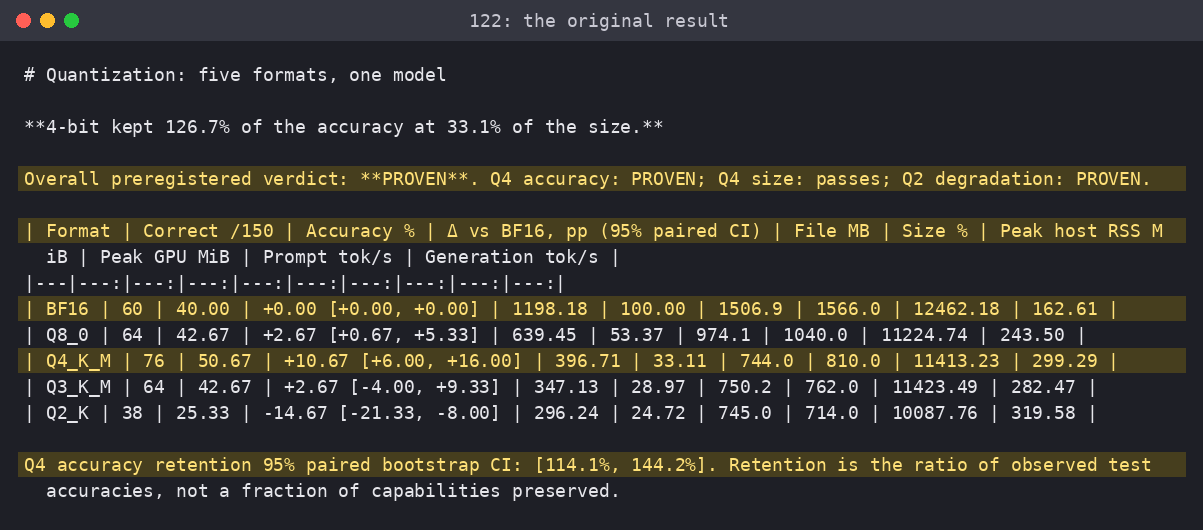
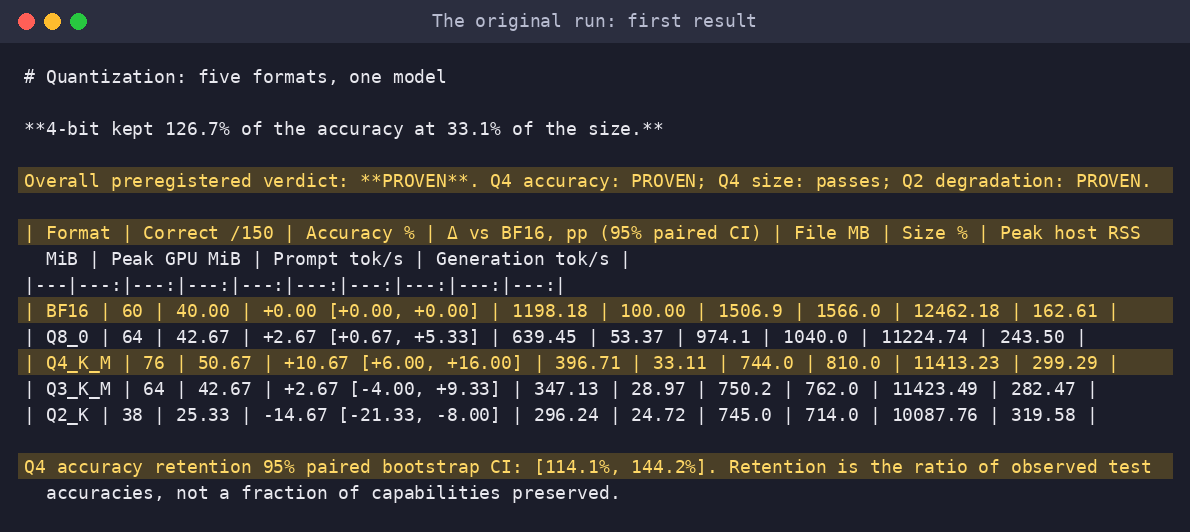
Rename internal IDs to descriptive names

diff --git a/scripts/report.py b/scripts/report.py
@@ -23,7 +23,7 @@ Overall verdict: **{s['verdict']}**. Q4 within 1 pp: **{s['H1_Q4']}**. Q2 drop >
 On {n:,} fresh science questions, Q4 scored {q4['cyclic_accuracy']:.2f}% and BF16 {bf['cyclic_accuracy']:.2f}% after averaging answer-letter likelihoods across all four cyclic option rotations. The old apparent Q4 advantage depended strongly on the original answer format, so a forced-letter win should not be read as a general improvement in capability.
 
 ## Method and interpretation
-The same pinned Qwen3-0.6B GGUF weights as experiment 122 were loaded in fresh processes on NVIDIA L4 using llama-cpp-python 0.3.36, context 2048, batch 512, microbatch 128, GPU layers 99, two CPU threads, flash attention disabled, logits_all=True. All model hashes were verified. The first VM disappeared; complete BF16/Q2 and partial Q8/Q3 checkpoints were retained and missing rows finished on a replacement L4. Original allocation evidence is archived in results/allocation1; results/recovery.json records retained row counts. Per-format metadata seconds for resumed formats measure only work since the last process start, not total runtime. Four single-token letter log probabilities are scored against the full vocabulary after the exact original non-thinking chat prompt. For each question, four cyclic permutations place every content answer in every letter position. We map scores back to original answer identities, average log probabilities, and pick the largest. This cancels a fixed additive preference for a letter; it does not guarantee invariance to content-dependent ordering effects. Within a prompt logits and log probabilities give the same ranking. This was likelihood ranking in 122 too, rather than sampled free-form generation.
+The same pinned Qwen3-0.6B GGUF weights as the [original run](https://github.com/nankris/quantization-ladder) were loaded in fresh processes on NVIDIA L4 using llama-cpp-python 0.3.36, context 2048, batch 512, microbatch 128, GPU layers 99, two CPU threads, flash attention disabled, logits_all=True. All model hashes were verified. The first VM disappeared; complete BF16/Q2 and partial Q8/Q3 checkpoints were retained and missing rows finished on a replacement L4. Original allocation evidence is archived in results/allocation1; results/recovery.json records retained row counts. Per-format metadata seconds for resumed formats measure only work since the last process start, not total runtime. Four single-token letter log probabilities are scored against the full vocabulary after the exact original non-thinking chat prompt. For each question, four cyclic permutations place every content answer in every letter position. We map scores back to original answer identities, average log probabilities, and pick the largest. This cancels a fixed additive preference for a letter; it does not guarantee invariance to content-dependent ordering effects. Within a prompt logits and log probabilities give the same ranking. The original run also used likelihood ranking rather than sampled free-form generation.
 
 Secondary full-text scoring replaces the instruction with “Reply with only the exact answer text.” Each candidate is tokenized without BOS, appended to the separately tokenized prompt, and teacher-forced in a reset context. Score the mean full-vocabulary log probability per candidate token; no EOS likelihood. Text prompt and candidate scores are a different metric, not another independent replication. Model token IDs, candidate token log probabilities, prompt-token counts, candidate counts and zero generated tokens are retained in every raw row. Prompt counts include repeated prefixes in the four full-text candidate evaluations. Letter candidates are scored from a common distribution, not fed as generated inputs.
 
@@ -45,7 +45,7 @@ Across all formats, the model tokenizer recorded {sum(r['evaluated_input_tokens'
 Post hoc split sensitivity (not new confirmatory tests): Q4 minus BF16 was -2.91 pp on train (n=2,203; CI [-4.09, -1.77]), 0.00 pp on validation (n=566; CI [-2.12, +2.12]), and -1.68 pp on the fresh test split (n=2,203; CI [-2.86, -0.54]). Test-only is inconclusive at the one-point margin; the registered decision uses all 4,972 questions. Full descriptive results are in results/descriptive_split_checks.json.
 
 ## Caveats
-One small model, one science benchmark family, one prompt per scoring style, prebuilt mixed-precision quantizers. This does not estimate a universal bit-width effect or test generated reasoning. Combining train, validation and test questions improves precision but expands beyond the earlier test-only distribution. No five-seed training replication applies to deterministic fixed-weight scoring. The small pilot gives an uncertain discordance estimate. Pilot and confirmation use disjoint ARC-Easy items, rather than a different dataset/model as preferred by the general operational rule. Bootstrap intervals describe item sampling, not prompt choice or unknown training contamination. Native/Python logit agreement is checked for all letter rotations; a one-question old/new and incremental/full smoke check showed small numerical differences and the same winning tokens, not universal equivalence. A first overly strict validation tolerance failed and is retained in logs. Exact-text deduplication does not remove semantic near duplicates. The follow-up context allocation is 2048 tokens, versus 1024 in 122; letter prompt content is unchanged. No new speed or memory superiority claim is made.
+One small model, one science benchmark family, one prompt per scoring style, prebuilt mixed-precision quantizers. This does not estimate a universal bit-width effect or test generated reasoning. Combining train, validation and test questions improves precision but expands beyond the earlier test-only distribution. No five-seed training replication applies to deterministic fixed-weight scoring. The small pilot gives an uncertain discordance estimate. Pilot and confirmation use disjoint ARC-Easy items, rather than a different dataset or model. Bootstrap intervals describe item sampling, not prompt choice or unknown training contamination. Native/Python logit agreement is checked for all letter rotations; a one-question old/new and incremental/full smoke check showed small numerical differences and the same winning tokens, not universal equivalence. A first overly strict validation tolerance failed and is retained in logs. Exact-text deduplication does not remove semantic near duplicates. The follow-up context allocation is 2048 tokens, versus 1024 in the original run; letter prompt content is unchanged. No new speed or memory superiority claim is made.
 
 {timeline}
 
@@ -62,7 +62,7 @@ A quantization result that looked like an improvement was also a test of how muc
 
 The popular promise is that four-bit models preserve quality while taking much less space. The [GPTQ paper](https://arxiv.org/abs/2210.17323) describes “negligible accuracy degradation” for its own models and quantization method. That is an attractive engineering trade: fit a model on cheaper hardware without paying much in wrong answers. It is not a guarantee for every model or every scoring script.
 
-My headline from this rerun is **{delta(q4)} percentage points for Q4 versus BF16**, after balancing the option letters. That is the number I would carry forward, with its uncertainty, rather than my first run's apparent improvement.
+My headline from this rerun is **{delta(q4)} percentage points for Q4 versus BF16**, after balancing the option letters. That is the number I would carry forward, with its uncertainty, rather than my [first run's](https://github.com/nankris/quantization-ladder) apparent improvement.
 
 ## What I expected, and what the first run said
 
@@ -163,7 +163,7 @@ A post hoc check of the fresh test split alone gave Q4 a -1.68-point difference,
 
 The useful habit is to inspect what a score rewards before deciding what a smaller model preserved.
 
-Code: <repo link placeholder>
+Code: https://github.com/nankris/quant-ladder-logprob
 '''
 (R/'blog.md').write_text(blog)
 print('blog words',len(re.findall(r"\b[\w'-]+\b",blog)))

diff --git a/scripts/monitor.py b/scripts/monitor.py
@@ -9,17 +9,17 @@ while True:
   first=(datetime.datetime.fromisoformat(rec['first_session_absent_observed_utc'])-datetime.datetime.fromisoformat(rec['first_allocation_start_utc_approx'])).total_seconds()/3600*1.54
   current=(datetime.datetime.now(datetime.timezone.utc)-datetime.datetime.fromisoformat(rec['recovery_allocation_utc'])).total_seconds()/3600*1.54
   if first+current>=5.8:
-   (R/'results/budget_stop.txt').write_text(subprocess.check_output(['colab','stop','-s','b10-122b'],text=True,timeout=50))
+   (R/'results/budget_stop.txt').write_text(subprocess.check_output(['colab','stop','-s','quant-ladder'],text=True,timeout=50))
    raise SystemExit('Conservative CU limit reached')
   u=subprocess.check_output(['colab','usage'],text=True,timeout=50)
   (R/f'results/usage_monitor_{n:03d}.txt').write_text(u)
-  subprocess.run(['colab','exec','-s','b10-122b','-f','scripts/poll.py','--timeout','25'],stdout=(R/'results/poll_latest.txt').open('w'),stderr=subprocess.STDOUT,timeout=55,check=True)
-  subprocess.run(['colab','download','-s','b10-122b','/content/b10-122b/checkpoint.tar.gz','results/checkpoint.tar.gz'],stdout=subprocess.DEVNULL,timeout=55,check=True)
+  subprocess.run(['colab','exec','-s','quant-ladder','-f','scripts/poll.py','--timeout','25'],stdout=(R/'results/poll_latest.txt').open('w'),stderr=subprocess.STDOUT,timeout=55,check=True)
+  subprocess.run(['colab','download','-s','quant-ladder','/content/quant-ladder/checkpoint.tar.gz','results/checkpoint.tar.gz'],stdout=subprocess.DEVNULL,timeout=55,check=True)
   with tarfile.open(R/'results/checkpoint.tar.gz') as tf: tf.extractall(R,filter='data')
   status=json.loads((R/'results/status.json').read_text()); counts={p.stem:sum(1 for _ in p.open()) for p in (R/'results').glob('confirm_*.jsonl')}
   print(datetime.datetime.now(datetime.timezone.utc).isoformat(),status,counts,flush=True)
   if status['status'] in ['complete','error']:
-   (R/'results/stop.txt').write_text(subprocess.check_output(['colab','stop','-s','b10-122b'],text=True,timeout=50))
+   (R/'results/stop.txt').write_text(subprocess.check_output(['colab','stop','-s','quant-ladder'],text=True,timeout=50))
    (R/'results/usage_after.txt').write_text(subprocess.check_output(['colab','usage'],text=True,timeout=50))
    break
  except Exception as e: print(type(e).__name__,str(e),flush=True)

diff --git a/scripts/finalize.py b/scripts/finalize.py
@@ -24,7 +24,7 @@ analysis=json.loads((D/'analysis_stage.json').read_text()); analysis_start=dt(an
 mins=lambda a,b:(b-a).total_seconds()/60
 timing.update(end_ist=now.astimezone(datetime.timezone(datetime.timedelta(hours=5,minutes=30))).isoformat(),actual_minutes=mins(start,now),per_stage_minutes={'setup':mins(start,frozen),'GPU run':mins(frozen,gpu_end),'eval':mins(analysis_start,analysis_end),'writeup':mins(gpu_end,now)-mins(analysis_start,analysis_end)},stage_note='Elapsed wall-clock allocation: setup ends at sample freeze (includes pilot); GPU run ends at last format metadata and includes outage/recovery downtime; eval is local analysis; remaining wall time is publication/writeup. Publication preparation also overlapped GPU evaluation. These are elapsed stage buckets, not exclusive labor measurements.',confirmatory_gpu_end_utc=gpu_end.isoformat())
 (D/'timing.json').write_text(json.dumps(timing,indent=2))
-parts=['122b run evidence: NVIDIA L4, two allocations under b10-122b after VM loss; no generated tokens.\n', '=== initial nvidia-smi ===\n'+(D/'nvidia-smi.txt').read_text(),'=== active GPU snapshot ===\n'+(D/'nvidia-smi-during.txt').read_text(),'=== first allocation evidence ===\n'+(D/'allocation1/nvidia-smi.txt').read_text(),'=== hash verification ===\n'+(D/'prepare.log').read_text()[-500:]]
+parts=['Run evidence: NVIDIA L4, two allocations under quant-ladder after VM loss; no generated tokens.\n', '=== initial nvidia-smi ===\n'+(D/'nvidia-smi.txt').read_text(),'=== active GPU snapshot ===\n'+(D/'nvidia-smi-during.txt').read_text(),'=== first allocation evidence ===\n'+(D/'allocation1/nvidia-smi.txt').read_text(),'=== hash verification ===\n'+(D/'prepare.log').read_text()[-500:]]
 for fmt in ['BF16','Q8_0','Q4_K_M','Q3_K_M','Q2_K']:
  p=D/f'confirm_{fmt}.log'
  parts+=['=== '+fmt+' ===\n'+(p.read_text() if p.exists() else (D/f'aux_{fmt}.log').read_text())[-700:],'=== metadata seconds (resumed formats report suffix work only) ===\n'+str(json.loads((D/f'confirm_{fmt}_meta.json').read_text())['seconds'])+'\n']

diff --git a/scripts/termshot.py b/scripts/termshot.py
@@ -1,0 +1,27 @@
+#!/usr/bin/env python3
+"""Render a text file as a terminal-window screenshot (PNG)."""
+import argparse,re,textwrap
+from pathlib import Path
+from PIL import Image,ImageDraw,ImageFont
+from matplotlib import font_manager
+p=argparse.ArgumentParser(); p.add_argument('out'); p.add_argument('--title',required=True); p.add_argument('--file',required=True)
+p.add_argument('--width',type=int,default=90); p.add_argument('--max',type=int,default=45); p.add_argument('--highlight',default='')
+a=p.parse_args()
+rows=[]
+for line in Path(a.file).read_text().splitlines():
+ rows.extend(textwrap.wrap(line,a.width,subsequent_indent='  ',replace_whitespace=False,drop_whitespace=False) or [''])
+rows=rows[:a.max]
+mono=ImageFont.truetype(font_manager.findfont('DejaVu Sans Mono'),18); sans=ImageFont.truetype(font_manager.findfont('DejaVu Sans Mono'),18)
+cw=mono.getlength('M'); lh=26; top=42; pad=24
+W=int(2*pad+cw*a.width+4); H=top+2*pad+lh*len(rows)
+im=Image.new('RGB',(W,H),'#1b1d2a'); d=ImageDraw.Draw(im)
+d.rectangle([0,0,W,top],fill='#2b2e3f')
+for i,c in enumerate(['#ff5f57','#febc2e','#28c840']): d.ellipse([18+i*26,13,18+i*26+16,29],fill=c)
+d.text((W/2,top/2),a.title,font=sans,fill='#b8bcd0',anchor='mm')
+hl=re.compile(a.highlight) if a.highlight else None
+for i,r in enumerate(rows):
+ y=top+pad+lh*i
+ hit=bool(hl and hl.search(r))
+ if hit: d.rectangle([pad-6,y-3,W-pad+6,y+lh-4],fill='#4a3f27')
+ d.text((pad,y),r,font=mono,fill='#ffd866' if hit else '#e8e8ee')
+im.save(a.out,dpi=(150,150)); print('RENDERED',a.file,'->',a.out,im.size)

diff --git a/scripts/screenshots.py b/scripts/screenshots.py
@@ -1,5 +1,5 @@
 """Render preserved files and computed results as real terminal screenshots."""
-import json,subprocess
+import json,subprocess,sys
 from pathlib import Path
 R=Path(__file__).resolve().parents[1]; D=R/'results'; F=R/'figures/screenshots'; F.mkdir(exist_ok=True)
 old=(D/'earlier_writeup.md').read_text()
@@ -15,6 +15,6 @@ for i in [2,4]:
  r=s['summary'][i]; lo,hi=r['cyclic_delta_ci']
  lines.append(f"{r['format']} - BF16: {r['cyclic_delta']:+.2f} pp; paired 95% CI [{lo:+.2f}, {hi:+.2f}]")
 (D/'screenshot_verdict.txt').write_text('\n'.join(lines)+'\n')
-for name,title,width in [('first','122: the original result',105),('flaw','122: the letter preference',90),('fixed','122b: fixed scoring on fresh questions',90),('verdict','122b: registered verdict',90)]:
- subprocess.run(['/workspace/tools/mlenv/bin/python','/workspace/work/tig/_batch10/vm/termshot.py',str(F/f'{name}.png'),'--title',title,'--file',str(D/f'screenshot_{name}.txt'),'--width',str(width),'--max','45','--highlight','Q4|BF16|verdict'],check=True)
+for name,title,width in [('first','The original run: first result',105),('flaw','The original run: letter preference',90),('fixed','Fixed scoring on fresh questions',90),('verdict','Registered verdict',90)]:
+ subprocess.run([sys.executable,str(Path(__file__).with_name('termshot.py')),str(F/f'{name}.png'),'--title',title,'--file',str(D/f'screenshot_{name}.txt'),'--width',str(width),'--max','45','--highlight','Q4|BF16|verdict'],check=True)
  print((D/f'screenshot_{name}.txt').read_text())

diff --git a/scripts/diagram.py b/scripts/diagram.py
@@ -7,7 +7,7 @@ def box(i,x,y,w,h,text,color):
  els.append(dict(common,id=f't{i}',type='text',x=x+14,y=y+17,width=w-28,height=67.5,text=text,fontSize=18,fontFamily=1,textAlign='center',verticalAlign='top',baseline=63,containerId=None,originalText=text,autoResize=True,lineHeight=1.25,backgroundColor='transparent',roundness=None))
 def arrow(i,x,y,dx,dy):
  els.append(dict(id=f'a{i}',type='arrow',x=x,y=y,width=abs(dx),height=abs(dy),angle=0,strokeColor='#25334a',backgroundColor='transparent',fillStyle='solid',strokeWidth=2,strokeStyle='solid',roughness=1,opacity=100,groupIds=[],frameId=None,roundness={'type':2},seed=i*87,version=1,versionNonce=i,isDeleted=False,boundElements=None,updated=1,link=None,locked=False,points=[[0,0],[dx,dy]],lastCommittedPoint=None,startBinding=None,endBinding=None,startArrowhead=None,endArrowhead='arrow',elbowed=False))
-box(1,20,30,270,115,'Public ARC-Easy\nExclude 122 + pilot\nFreeze fresh questions','#e9effa')
+box(1,20,30,270,115,'Public ARC-Easy\nExclude original 150 + pilot\nFreeze fresh questions','#e9effa')
 box(2,355,30,280,115,'Qwen3-0.6B\nBF16, Q8, Q4, Q3, Q2\nPinned GGUF weights','#eaf5ee')
 arrow(1,295,87,55,0)
 box(3,30,230,275,120,'Four cyclic rotations\nScore A / B / C / D\nMap back to answer text','#fff4d9')

diff --git a/scripts/inspect_recovery.py b/scripts/inspect_recovery.py
@@ -1,8 +1,8 @@
 from pathlib import Path
 import subprocess,time
-R=Path('/content/b10-122b')
+R=Path('/content/quant-ladder')
 print(subprocess.getoutput("ps -eo pid,ppid,etime,args | grep -E '(8429|8922|pip install|scripts/prepare.py|scripts/evaluate.py)'"))
 for name in ['results/install.log','results/prepare.log','recovery_control.log']:
  p=R/name
  print(name,'mtime',time.ctime(p.stat().st_mtime) if p.exists() else 'missing',p.read_text()[-600:] if p.exists() else '')
-print(subprocess.getoutput('du -sh /content/b10-122b/models /root/.cache/pip 2>/dev/null'))
+print(subprocess.getoutput('du -sh /content/quant-ladder/models /root/.cache/pip 2>/dev/null'))

diff --git a/scripts/auxiliary.py b/scripts/auxiliary.py
@@ -1,7 +1,7 @@
 """Second serial queue on the SAME VM/GPU; per-format locks prevent duplicates."""
 import os,sys,site,glob,subprocess,json,time,traceback
 from pathlib import Path
-R=Path('/content/b10-122b'); os.chdir(R); start=time.time()
+R=Path('/content/quant-ladder'); os.chdir(R); start=time.time()
 libs=[p for s in site.getsitepackages() for p in glob.glob(s+'/nvidia/*/lib')]
 env=dict(os.environ,LD_LIBRARY_PATH=':'.join(libs)+':'+os.environ.get('LD_LIBRARY_PATH',''),OMP_NUM_THREADS='2',OPENBLAS_NUM_THREADS='1')
 try:

diff --git a/scripts/launch.py b/scripts/launch.py
@@ -1,6 +1,6 @@
 import tarfile,subprocess,os
 from pathlib import Path
-R=Path('/content/b10-122b'); R.mkdir(exist_ok=True)
-with tarfile.open('/content/b10-122b-upload.tar.gz') as tf: tf.extractall(R)
+R=Path('/content/quant-ladder'); R.mkdir(exist_ok=True)
+with tarfile.open('/content/quant-ladder-upload.tar.gz') as tf: tf.extractall(R)
 p=subprocess.Popen(['nohup','python',str(R/'scripts/worker.py')],cwd=R,stdout=(R/'worker.log').open('a'),stderr=subprocess.STDOUT,start_new_session=True)
 print('DETACHED_PID',p.pid)

diff --git a/scripts/recovery_control.py b/scripts/recovery_control.py
@@ -1,7 +1,7 @@
 """On replacement VM, fill the GPU and enforce a two-hour recovery deadline."""
 import subprocess,sys,time,os,signal,json,datetime
 from pathlib import Path
-R=Path('/content/b10-122b')
+R=Path('/content/quant-ladder')
 if '--child' not in sys.argv:
  p=subprocess.Popen(['nohup',sys.executable,str(R/'scripts/recovery_control.py'),'--child'],stdout=(R/'recovery_control.log').open('a'),stderr=subprocess.STDOUT,start_new_session=True)
  print('RECOVERY_CONTROLLER_PID',p.pid)

diff --git a/scripts/worker.py b/scripts/worker.py
@@ -1,6 +1,6 @@
 import sys,subprocess,os,time,json,site,glob,traceback,tarfile
 from pathlib import Path
-R=Path('/content/b10-122b'); os.chdir(R); start=time.time()
+R=Path('/content/quant-ladder'); os.chdir(R); start=time.time()
 def run(cmd,log='install.log',env=None):
  with (R/'results'/log).open('a') as f: subprocess.run(cmd,stdout=f,stderr=subprocess.STDOUT,env=env,check=True)
 try:

diff --git a/scripts/validate_runtime.py b/scripts/validate_runtime.py
@@ -1,6 +1,6 @@
 import os,json,sys,site,glob,subprocess
 from pathlib import Path
-R=Path('/content/b10-122b')
+R=Path('/content/quant-ladder')
 if '--child' not in sys.argv:
  libs=[p for s in site.getsitepackages() for p in glob.glob(s+'/nvidia/*/lib')]
  env=dict(os.environ,LD_LIBRARY_PATH=':'.join(libs)+':'+os.environ.get('LD_LIBRARY_PATH',''))
